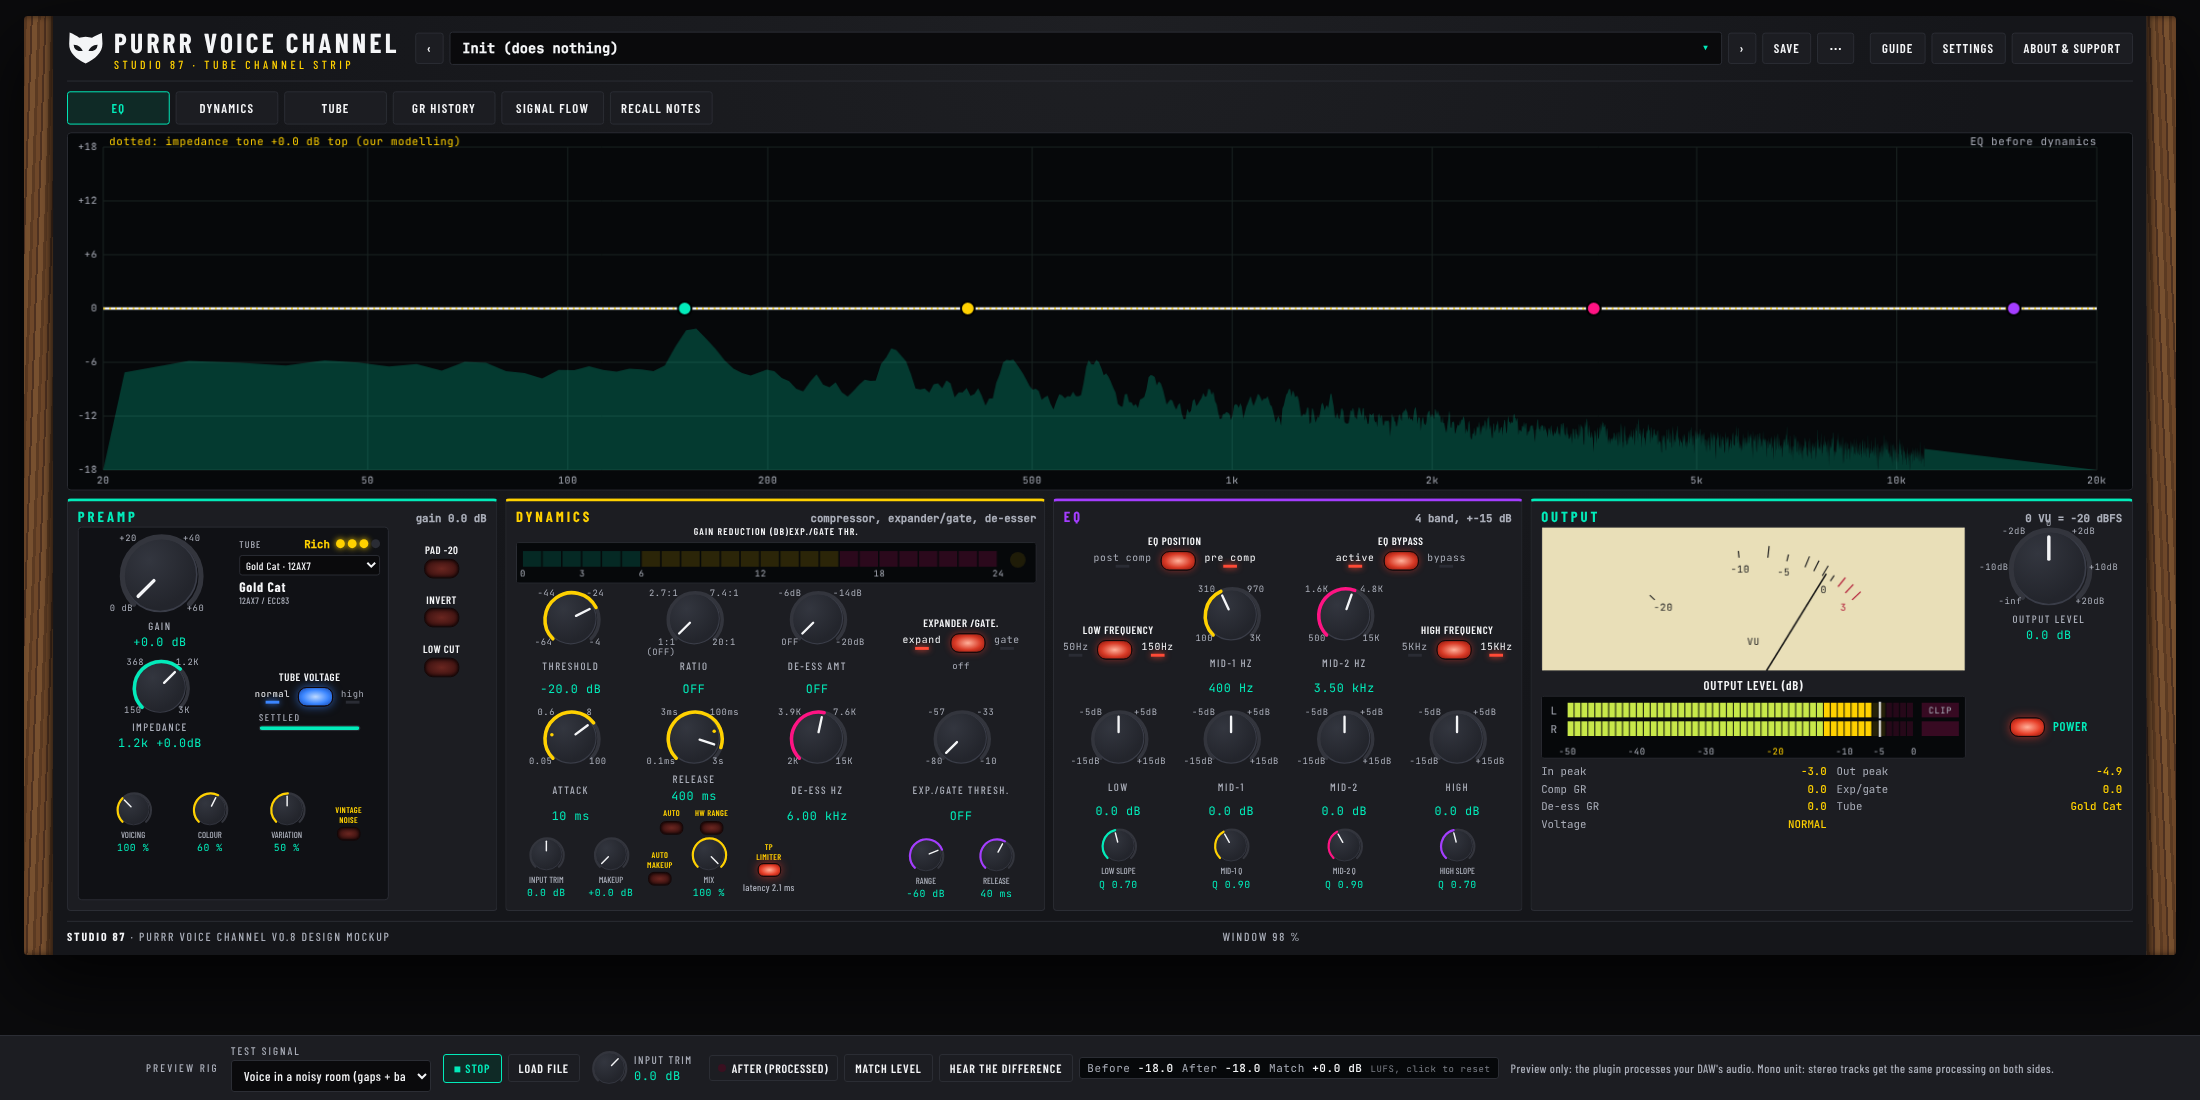
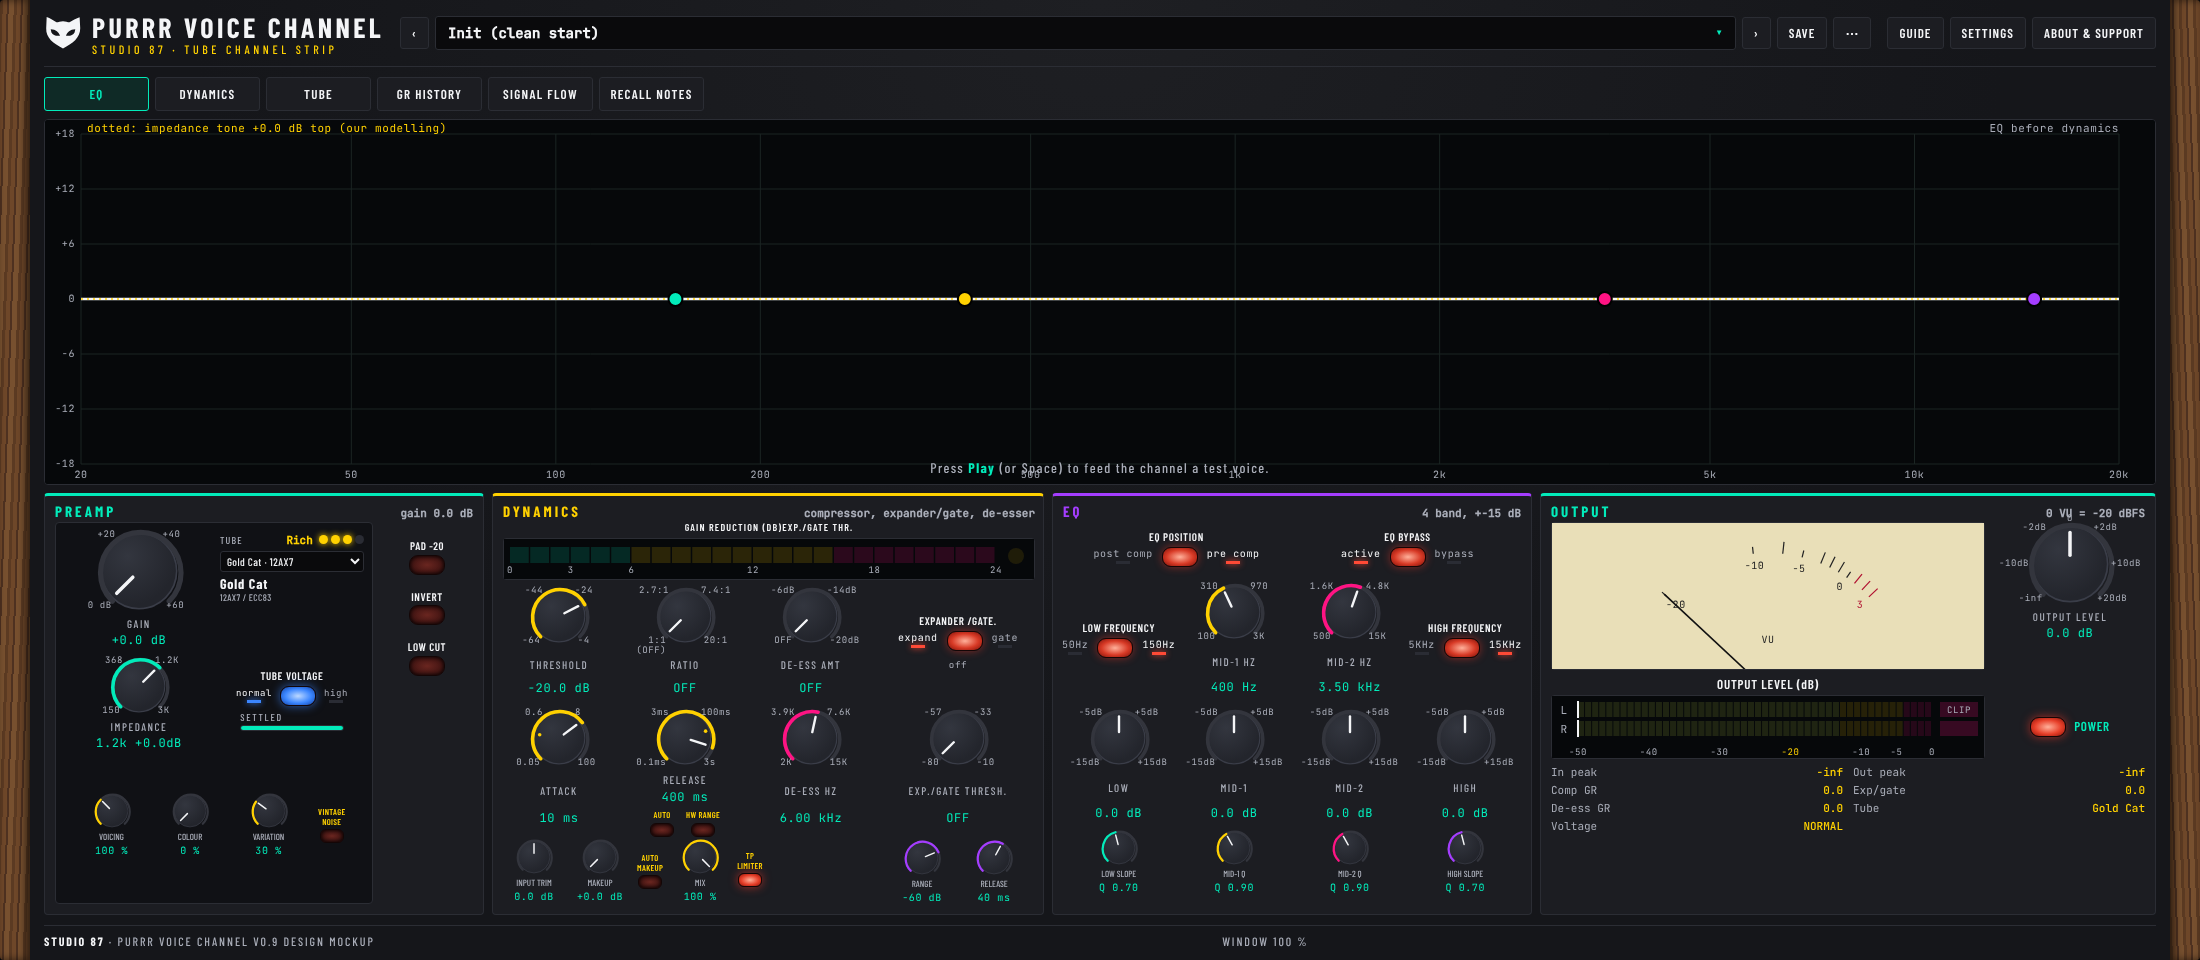
Mockup v0.9: Voicing reaches the audio engine, saved in presets, tube view follows Voicing and Colour, Init renamed
Claude-Session: https://claude.ai/code/session_01S9jrKwfQpvKvnsLZgNrWyk

diff --git a/docs/mockup/index.html b/docs/mockup/index.html
@@ -321,7 +321,7 @@ body { user-select:none; -webkit-user-select:none; } textarea, input, select { u
         
       </div>
     </section>
-    <footer class="foot"><span><b>Studio 87</b> &middot; Purrr Voice Channel v0.8 design mockup</span><span id="sizeT" data-tip="Window size. Drag any edge or corner of the plugin to resize it; the shape stays the same. Double-click here for 100 %.">Window 100 %</span><span></span></footer>
+    <footer class="foot"><span><b>Studio 87</b> &middot; Purrr Voice Channel v0.9 design mockup</span><span id="sizeT" data-tip="Window size. Drag any edge or corner of the plugin to resize it; the shape stays the same. Double-click here for 100 %.">Window 100 %</span><span></span></footer>
   </div>
   <div class="cheek r"></div>
 </div>
@@ -901,7 +901,7 @@ var TIDX = {}; TUBES.forEach(function (t) { TIDX[t.id] = t; });
 
 /* ---------- parameters ---------- */
 def("gpos", 0); def("imp", 1200); def("pad", false); def("ph", false); def("lc", false);
-def("tube", "ax7"); def("tcol", 60); def("tvolt", "normal"); def("tvar", 50); def("tnoise", false);
+def("tube", "ax7"); def("tcol", 50); def("tvolt", "normal"); def("tvar", 30); def("tvoice", 100); def("tnoise", false);
 def("eqpos", "pre"); def("eqbyp", false);
 def("lg", 0); def("lf", 150); def("lq", 0.7); def("m1g", 0); def("m1f", 400); def("m1q", 0.9); def("m2g", 0); def("m2f", 3500); def("m2q", 0.9); def("hg", 0); def("hf", 15000); def("hq", 0.7);
 def("thr", -20); def("ratio", 1); def("att", 10); def("rel", 400); def("hwr", false); def("arel", false); def("itrim", 0); def("makeup", 0); def("amk", false); def("knee", 6); def("schp", 80); def("mix", 100); def("link", 100); def("lim", true);
@@ -1130,12 +1130,12 @@ GEN.sss = function () { /* sibilants with vowels between, for the de-esser */
 
 /* ---------- tube model (shared by the audio and the displays). Our own voicing. ---------- */
 function tubeCfg() {
-  var t = TIDX[S.tube] || TIDX.ax7, k = E.tubeK, col = S.tcol / 100, sp = DD.tsp(S.tube), ex = Math.min(1 + 2 * S.tvar / 100, 3);
-  return { id: S.tube, k: k, col: col, fc: 24000 + Math.max(-19000, (sp.fc * (1 + 0.3 * k) - 24000) * ex) * col, t: t };
+  var t = TIDX[S.tube] || TIDX.ax7, k = E.tubeK, col = S.tcol / 100, sp = DD.tsp(S.tube), ex = S.tvar <= 0 ? 0.2 : 0.2 + 4.8 * Math.pow(S.tvar / 100, 1.2), vm = clamp((S.tvoice === undefined ? 100 : S.tvoice) / 100, 0, 3);
+  return { id: S.tube, k: k, col: col, fc: 24000 + Math.max(-20500, (sp.fc * (1 + 0.3 * k) - 24000) * ex * vm), t: t };
 }
-function tubeOut(x, T) { return x + T.col * (DD.xfer(T.id, T.k, x) - x); }
+function tubeOut(x, T) { var y = DD.xfer(T.id, T.k, x), cc = 0.7 * T.col * T.col + 0.1 * T.col, g2 = Math.max(0, Math.min(1, (T.col - 0.4) / 0.6)), ce = Math.max(T.ap || 0.1, 1e-6); y += cc * y * y / (Math.abs(y) + 0.02); if (g2 > 0.001) y += g2 * (ce * Math.tanh(y / (0.35 * ce)) - y); return y; }
 function harmonics(amp, T) {
-  var N = 512, h = [], i, m;
+  var N = 512, h = [], i, m; T.ap = amp;
   for (m = 1; m <= 8; m++) { var a = 0, b = 0; for (i = 0; i < N; i++) { var y = tubeOut(amp * Math.sin(2 * Math.PI * i / N), T); a += y * Math.sin(2 * Math.PI * m * i / N); b += y * Math.cos(2 * Math.PI * m * i / N); } h.push(2 * Math.sqrt(a * a + b * b) / N); }
   return h;
 }
@@ -1157,7 +1157,7 @@ function magDb(c, f) {
 function eqTotalDb(f, cs) { var s = 0; for (var i = 0; i < 4; i++) s += magDb(cs[i], f); return s; }
 
 /* ---------- audio engine (v3): the DSP core is voicedsp.js; it runs in an AudioWorklet (audio thread) and falls back to the main thread ---------- */
-var PP = ["gpos", "pad", "imp", "ph", "lc", "tvolt", "tcol", "tvar", "tnoise", "tube", "eqpos", "eqbyp", "lg", "lf", "lq", "m1g", "m1f", "m1q", "m2g", "m2f", "m2q", "hg", "hf", "hq", "thr", "ratio", "att", "rel", "arel", "itrim", "makeup", "amk", "knee", "schp", "mix", "link", "lim", "ds", "dsf", "dsthr", "dsw", "dsl", "eon", "emode", "ethr", "erat", "erange", "eatt", "ehold", "erel", "ehys", "elook", "ekhp", "eklp", "out", "byp", "match", "delta"];
+var PP = ["gpos", "pad", "imp", "ph", "lc", "tvolt", "tcol", "tvoice", "tvar", "tnoise", "tube", "eqpos", "eqbyp", "lg", "lf", "lq", "m1g", "m1f", "m1q", "m2g", "m2f", "m2q", "hg", "hf", "hq", "thr", "ratio", "att", "rel", "arel", "itrim", "makeup", "amk", "knee", "schp", "mix", "link", "lim", "ds", "dsf", "dsthr", "dsw", "dsl", "eon", "emode", "ethr", "erat", "erange", "eatt", "ehold", "erel", "ehys", "elook", "ekhp", "eklp", "out", "byp", "match", "delta"];
 function paramPack(first) { var o = {}; PP.forEach(function (k) { o[k] = S[k]; }); if (first) o.tubeK = E.tubeK; return o; }
 function sendParams() { if (E.node && E.node.port) E.node.port.postMessage(paramPack()); else if (E.dsp) E.dsp.set(paramPack()); }
 var WSRC = "var VoiceDSP=" + VoiceDSP.toString() + ";registerProcessor('vc-dsp',class extends AudioWorkletProcessor{constructor(){super();this.d=VoiceDSP(sampleRate);this.n=0;this.a={inL:0,inR:0,outL:0,outR:0,rms:0,gr:0,eg:0,tubeK:0};this.port.onmessage=e=>{this.d.set(e.data)}}process(i,o){var a=i[0],b=o[0];if(!b||!b.length)return true;if(!a||!a.length){return true}var L=a[0],R=a[1]||a[0],s=this.d.process(L,R,b[0],b[1]||b[0],b[0].length),A=this.a;A.inL=Math.max(A.inL,s.inL);A.inR=Math.max(A.inR,s.inR);A.outL=Math.max(A.outL,s.outL);A.outR=Math.max(A.outR,s.outR);A.rms=Math.max(A.rms,s.rms);A.gr=Math.max(A.gr,s.gr);A.eg=Math.max(A.eg,s.eg);A.tubeK=s.tubeK;A.dgr=Math.max(A.dgr||0,s.dgr);A.st=s;this.n+=b[0].length;if(this.n>=1536){this.n=0;this.port.postMessage(A);this.a={inL:0,inR:0,outL:0,outR:0,rms:0,gr:0,eg:0,tubeK:s.tubeK,dgr:0}}return true}});";
@@ -1317,7 +1317,7 @@ function drawTube(c) {
   txt(g, "Transfer curve", cx, 14, CC["--ink-dim"], "left", 11);
   var R = 1.5, mx = function (v) { return cx + (v + R) / (2 * R) * cw; }, my = function (v) { return cy + cw - (v + R) / (2 * R) * cw; };
   g.strokeStyle = CC["--ink-dim"]; g.setLineDash([4, 4]); g.beginPath(); g.moveTo(mx(-R), my(-R)); g.lineTo(mx(R), my(R)); g.stroke(); g.setLineDash([]);
-  g.lineWidth = 2.6; g.strokeStyle = CC["--cAcc"]; g.beginPath(); for (i = 0; i <= 200; i++) { var xv = -R + i / 200 * 2 * R, yv = clamp(tubeOut(xv, T), -R, R); if (i) g.lineTo(mx(xv), my(yv)); else g.moveTo(mx(xv), my(yv)); } g.stroke();
+  T.ap = amp; g.lineWidth = 2.6; g.strokeStyle = CC["--cAcc"]; g.beginPath(); for (i = 0; i <= 200; i++) { var xv = -R + i / 200 * 2 * R, yv = clamp(tubeOut(xv, T), -R, R); if (i) g.lineTo(mx(xv), my(yv)); else g.moveTo(mx(xv), my(yv)); } g.stroke();
   g.beginPath(); g.arc(mx(amp), my(clamp(tubeOut(amp, T), -R, R)), 5, 0, 7); g.fillStyle = CC["--cR"]; g.fill(); g.beginPath(); g.arc(mx(-amp), my(clamp(tubeOut(-amp, T), -R, R)), 5, 0, 7); g.fill();
   txt(g, "drive now: " + (20 * Math.log10(amp)).toFixed(1) + " dBFS peak", cx, cy + cw + 16, CC["--cR"], "left", 11);
   var hx = cx + cw + 50, hw = w - hx - 20, base = cy + cw * 0.58; txt(g, "Harmonics added at this level (dB below the fundamental)", hx, 14, CC["--ink-dim"], "left", 11);
@@ -1326,7 +1326,7 @@ function drawTube(c) {
     g.fillStyle = i % 2 === 1 ? CC["--cM"] : CC["--cL"]; g.fillRect(bx, by, bw, bh); txt(g, "H" + (i + 1), bx + bw / 2, base + 14, CC["--ink-dim"], "center", 11); txt(g, dbc < -89 ? "-90" : dbc.toFixed(0), bx + bw / 2, by - 4, CC["--ink"], "center", 10); }
   txt(g, "even (teal) sound warm, odd (blue) sound edgy. THD " + (Math.sqrt(thd) * 100).toFixed(2) + " %", hx, base + 32, CC["--ink-dim"], "left", 11);
   var fy = base + 54, fh = h - 30 - fy - 8; if (fh > 14) { txt(g, "Bandwidth", hx, fy, CC["--ink-dim"], "left", 11); g.strokeStyle = CC["--cAcc"]; g.lineWidth = 2; g.beginPath(); for (i = 0; i <= 100; i++) { var f = 20 * Math.pow(1000, i / 100), m = 20 * Math.log10(1 / Math.sqrt(1 + Math.pow(f / T.fc, 2))), px = hx + i / 100 * hw, py = fy + 8 + clamp(-m / 12, 0, 1) * fh; if (i) g.lineTo(px, py); else g.moveTo(px, py); } g.stroke(); txt(g, "-3 dB at " + fmtHz(T.fc), hx + hw, fy, CC["--cAcc"], "right", 11); }
-  txt(g, "Active tube: " + t.name + " (" + t.eu + ")  ·  " + t.rate + "  ·  Colour " + S.tcol + " %  ·  voltage " + (S.tvolt === "high" ? "HIGH" : "NORMAL") + (E.tubeK > 0.02 && E.tubeK < 0.98 ? " (settling)" : ""), w - 14, h - 8, CC["--cAcc"], "right", 12);
+  txt(g, "Active tube: " + t.name + " (" + t.eu + ")  ·  " + t.rate + "  ·  Voicing " + S.tvoice + " %  ·  Colour " + S.tcol + " %  ·  voltage " + (S.tvolt === "high" ? "HIGH" : "NORMAL") + (E.tubeK > 0.02 && E.tubeK < 0.98 ? " (settling)" : ""), w - 14, h - 8, CC["--cAcc"], "right", 12);
 }
 
 /* ---------- GR history ---------- */
@@ -1436,7 +1436,7 @@ PAINT.push(function (dt) {
 /* ---------- factory presets (starting points, set by ear) ---------- */
 function P(name, o) { var v = {}; PKEYS.forEach(function (k) { v[k] = DEF[k]; }); delete v.notes; for (var k in o) v[k] = o[k]; return { name: name, v: v }; }
 var FACT = [
-  P("Init (does nothing)", { tcol: 0 }),
+  P("Init (clean start)", { tcol: 0 }),
   P("Lead Vocal, polished", { lc: true, tube: "at7", tcol: 45, thr: -22, ratio: 2.5, att: 8, rel: 300, ds: 40, dsf: 7000, eqpos: "pre", m1g: -2, m1f: 300, m2g: 2.5, m2f: 3500, hg: 3, hf: 15000 }),
   P("Rap / Spoken, tight", { lc: true, tube: "ax7", tcol: 50, thr: -26, ratio: 3.5, att: 3, rel: 200, ds: 55, dsf: 6500, m1g: -2, m1f: 250, m2g: 3, m2f: 4000, hg: 2, hf: 5000 }),
   P("Warm Tube Vocal", { tube: "at7a", tcol: 70, gpos: 12, lc: true, thr: -20, ratio: 2, att: 15, rel: 500, lg: 2, lf: 150, m2g: 1.5, m2f: 3000, hg: 2, hf: 15000 }),
